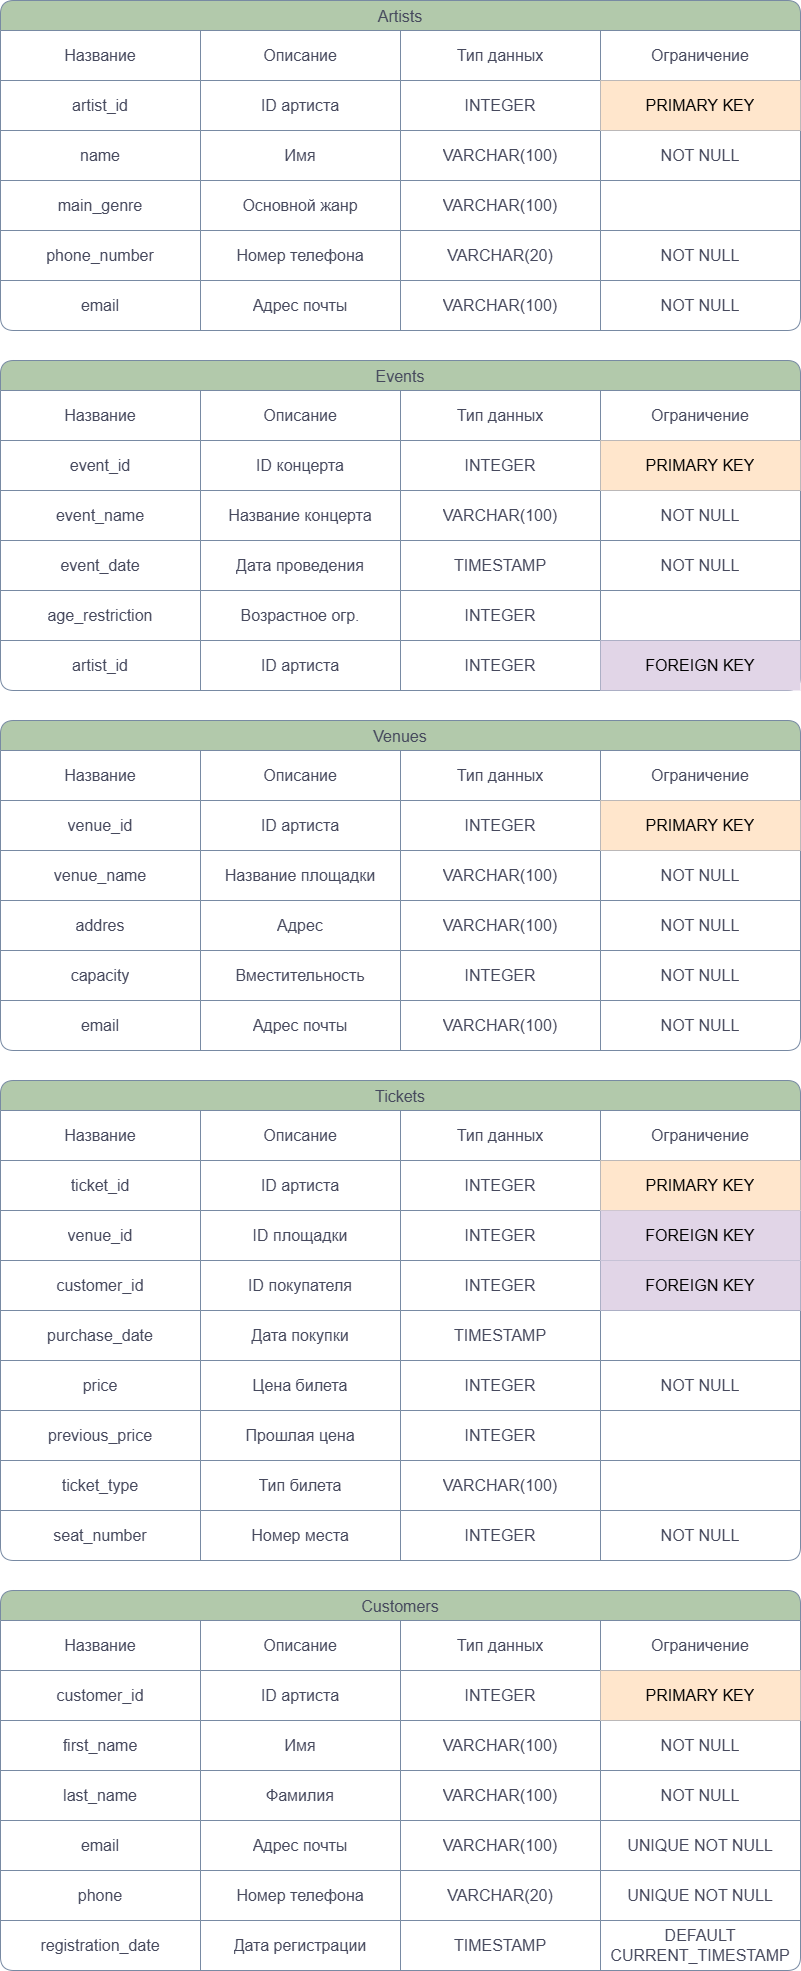
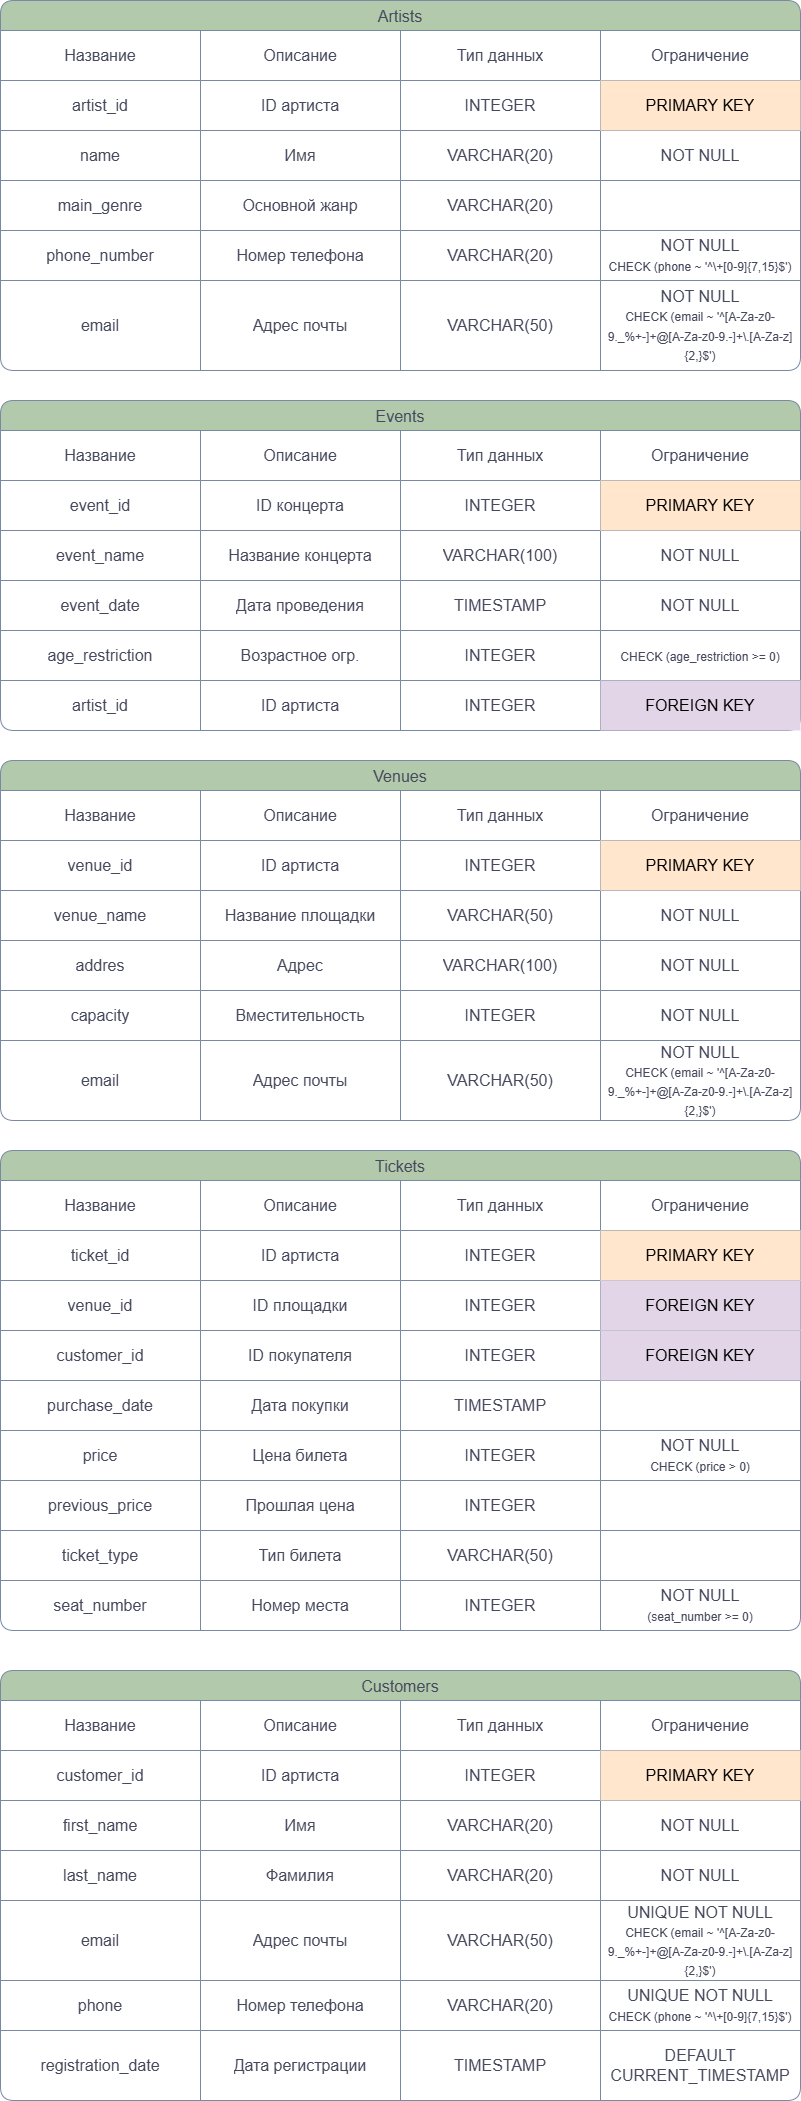
corrections after first try

diff --git a/scripts/create.py b/scripts/create.py
@@ -19,21 +19,21 @@ def create_tables():
 
         cur.execute("""
             CREATE TABLE IF NOT EXISTS Artists (
-                artist_id    SERIAL PRIMARY KEY,
-                name         VARCHAR(100) NOT NULL,
-                main_genre   VARCHAR(100),
-                phone_number VARCHAR(20) NOT NULL,
-                email        VARCHAR(100) NOT NULL
+                artist_id       SERIAL PRIMARY KEY,
+                name            VARCHAR(20) NOT NULL,
+                main_genre      VARCHAR(20),
+                phone_number    VARCHAR(20) NOT NULL CHECK (phone_number ~ '^\+[0-9]{7,15}$'),
+                email           VARCHAR(50) NOT NULL CHECK (email ~ '^[A-Za-z0-9._%+-]+@[A-Za-z0-9.-]+\.[A-Za-z]{2,}$')
             );
         """)
 
         cur.execute("""
             CREATE TABLE IF NOT EXISTS Venues (
-                venue_id   SERIAL PRIMARY KEY,
-                venue_name VARCHAR(100) NOT NULL,
-                address    VARCHAR(100) NOT NULL,
-                capacity   INTEGER,
-                email      VARCHAR(100) NOT NULL
+                venue_id        SERIAL PRIMARY KEY,
+                venue_name      VARCHAR(50) NOT NULL,
+                address         VARCHAR(100) NOT NULL,
+                capacity        INTEGER CHECK (capacity > 0),
+                email           VARCHAR(50) NOT NULL CHECK (email ~ '^[A-Za-z0-9._%+-]+@[A-Za-z0-9.-]+\.[A-Za-z]{2,}$')
             );
         """)
 
@@ -43,7 +43,7 @@ def create_tables():
                 event_name      VARCHAR(100) NOT NULL,
                 event_date      TIMESTAMP NOT NULL,
                 venue_id        INTEGER NOT NULL,
-                age_restriction INTEGER,
+                age_restriction INTEGER CHECK (age_restriction >= 0),
                 artist_id       INTEGER NOT NULL,
                 CONSTRAINT fk_events_venue
                     FOREIGN KEY (venue_id) REFERENCES Venues(venue_id),
@@ -54,25 +54,25 @@ def create_tables():
 
         cur.execute("""
             CREATE TABLE IF NOT EXISTS Customers (
-                customer_id       SERIAL PRIMARY KEY,
-                first_name        VARCHAR(100) NOT NULL,
-                last_name         VARCHAR(100) NOT NULL,
-                email             VARCHAR(100) UNIQUE NOT NULL,
-                phone             VARCHAR(20) UNIQUE NOT NULL,
+                customer_id      SERIAL PRIMARY KEY,
+                first_name       VARCHAR(20) NOT NULL,
+                last_name        VARCHAR(20) NOT NULL,
+                email            VARCHAR(50) UNIQUE NOT NULL CHECK (email ~ '^[A-Za-z0-9._%+-]+@[A-Za-z0-9.-]+\.[A-Za-z]{2,}$'),
+                phone            VARCHAR(20) UNIQUE NOT NULL CHECK (phone ~ '^\+[0-9]{7,15}$'),
                 registration_date TIMESTAMP DEFAULT CURRENT_TIMESTAMP
             );
         """)
 
         cur.execute("""
             CREATE TABLE IF NOT EXISTS Tickets (
-                ticket_id      SERIAL PRIMARY KEY,
-                event_id       INTEGER NOT NULL,
-                customer_id    INTEGER,
-                purchase_date  TIMESTAMP,
-                price          INTEGER NOT NULL,
-                previous_price INTEGER,
-                ticket_type    VARCHAR(100),
-                seat_number    INTEGER,
+                ticket_id           SERIAL PRIMARY KEY,
+                event_id            INTEGER NOT NULL,
+                customer_id         INTEGER,
+                purchase_date       TIMESTAMP,
+                price               INTEGER NOT NULL CHECK (price >= 0),
+                previous_price      INTEGER,
+                ticket_type         VARCHAR(50),
+                seat_number         INTEGER CHECK (seat_number >= 0),
                 CONSTRAINT fk_tickets_event
                     FOREIGN KEY (event_id) REFERENCES Events(event_id),
                 CONSTRAINT fk_tickets_customer
